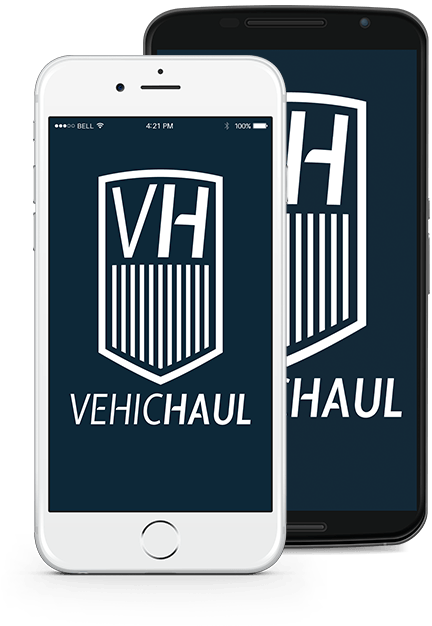
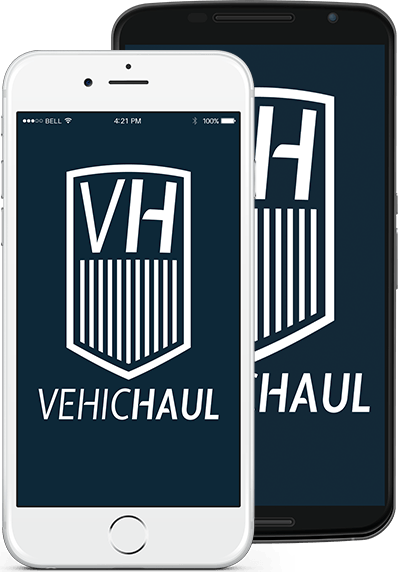
VH added to billboard rotation

diff --git a/_sass/components/billboards/_vh-billboard.scss b/_sass/components/billboards/_vh-billboard.scss
@@ -61,13 +61,49 @@
 
   .vh-billboard {
     display: block;
+
+    @include media($large-up) {
+      @include display(flex);
+      @include align-items(center);
+    }
   }
 
   .billboard {
-    padding-bottom: 0;
+    padding-top: $billboard-padding-top * 1.5;
+
+    @include media($large-up) {
+      padding-top: $billboard-padding-top-default;
+    }
+  }
+
+  .billboard-hero {
+    margin-bottom: rem(30);
+
+    @include media($large-up) {
+      @include flex(0 0 398px);
+    }
+
+    img {
+      display: block;
+      position: relative;
+      margin: 0 auto;
+    }
   }
 
   .billboard-msg {
     color: $white;
+
+    @include media($large-up) {
+      @include flex(1 auto);
+      padding-left: rem(60);
+    }
+  }
+
+  .billboard-tag {
+    margin-bottom: rem(10);
+
+    @include media($large-up) {
+      margin-bottom: 0;
+    }
   }
 }

diff --git a/index.html b/index.html
@@ -14,7 +14,7 @@ scripts:
 
 <section class="billboard-view vh-billboard">
   <div class="billboard-hero">
-    <img src="images/vh-billboard-hero.png" width="432" alt="VehicHaul mobile application for iOS and Android | A Product of Backup Parachute" />
+    <img src="images/vh-billboard-hero.png" width="398" alt="VehicHaul mobile application for iOS and Android | A Product of Backup Parachute" />
   </div>
   <div class="billboard-msg">
     <h4 class="billboard-subhead">A Product of Backup Parachute</h4>

diff --git a/_sass/components/billboards/_billboards.scss b/_sass/components/billboards/_billboards.scss
@@ -33,10 +33,6 @@
   font-size: 12vw;
   font-weight: $font-weight-ultra-bold;
 
-  @include media($medium-up) {
-    padding-left: rem(60);
-  }
-
   @include media($large-up) {
     font-size: rem(96);
   }
@@ -50,7 +46,7 @@
   margin-bottom: rem(5);
   line-height: 1.2;
   letter-spacing: $expanded-letter-spacing-small;
-  font-size: .2em;
+  font-size: .5em;
   font-weight: inherit;
 
   @include media($medium-up) {

diff --git a/_sass/components/billboards/_bps-billboard.scss b/_sass/components/billboards/_bps-billboard.scss
@@ -14,6 +14,7 @@
 
   .billboard-msg {
     @include media($medium-up) {
+      padding-left: rem(60);
       max-width: rem(1000);
     }
   }
